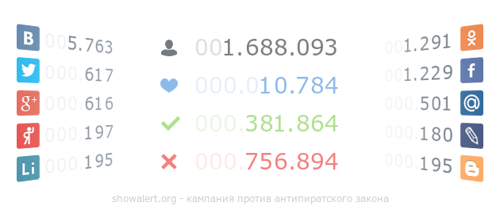
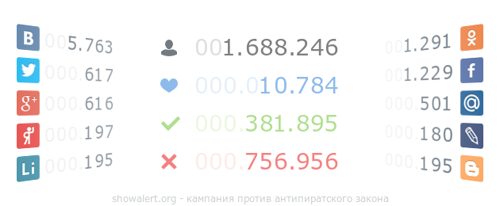
update statistics files for plugins

Changed region(s): [[0.57, 0.1748, 0.69, 0.2913], [0.57, 0.7282, 0.69, 0.8155], [0.6, 0.5534, 0.69, 0.6408]]

diff --git a/votes.js b/votes.js
@@ -1,1 +1,1 @@
-window.lk.votes(33351)
+window.lk.votes(33360)
